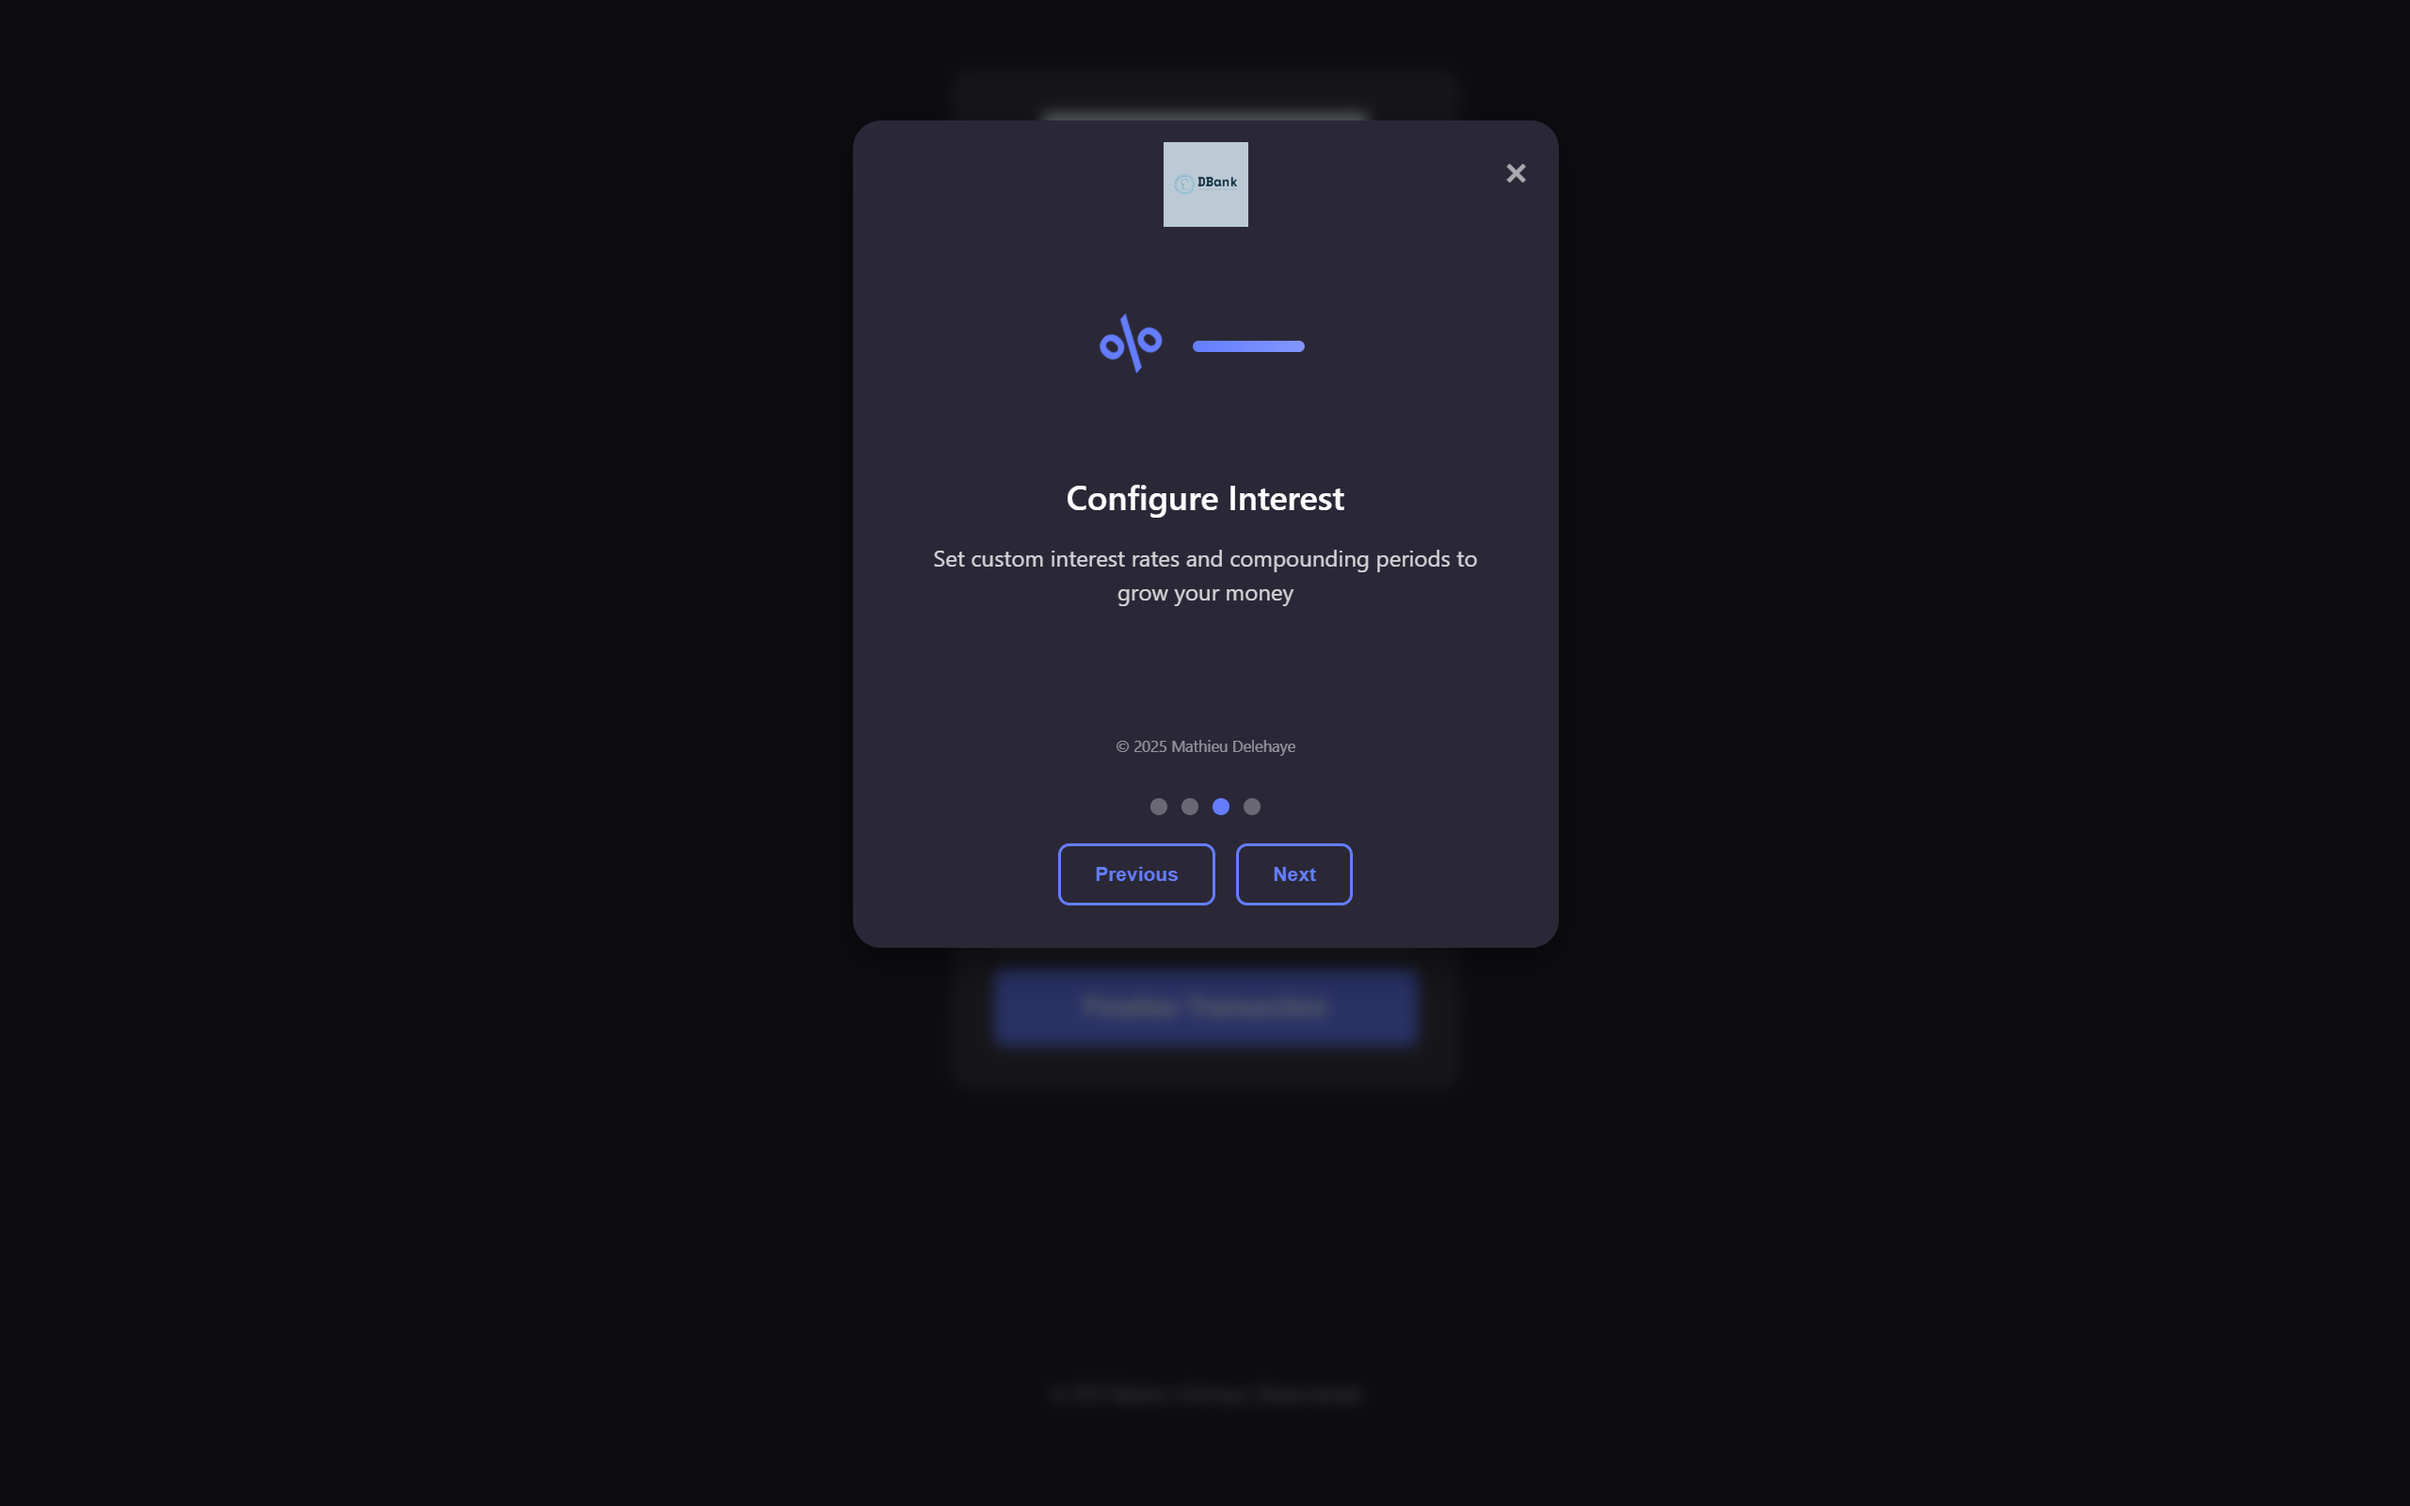
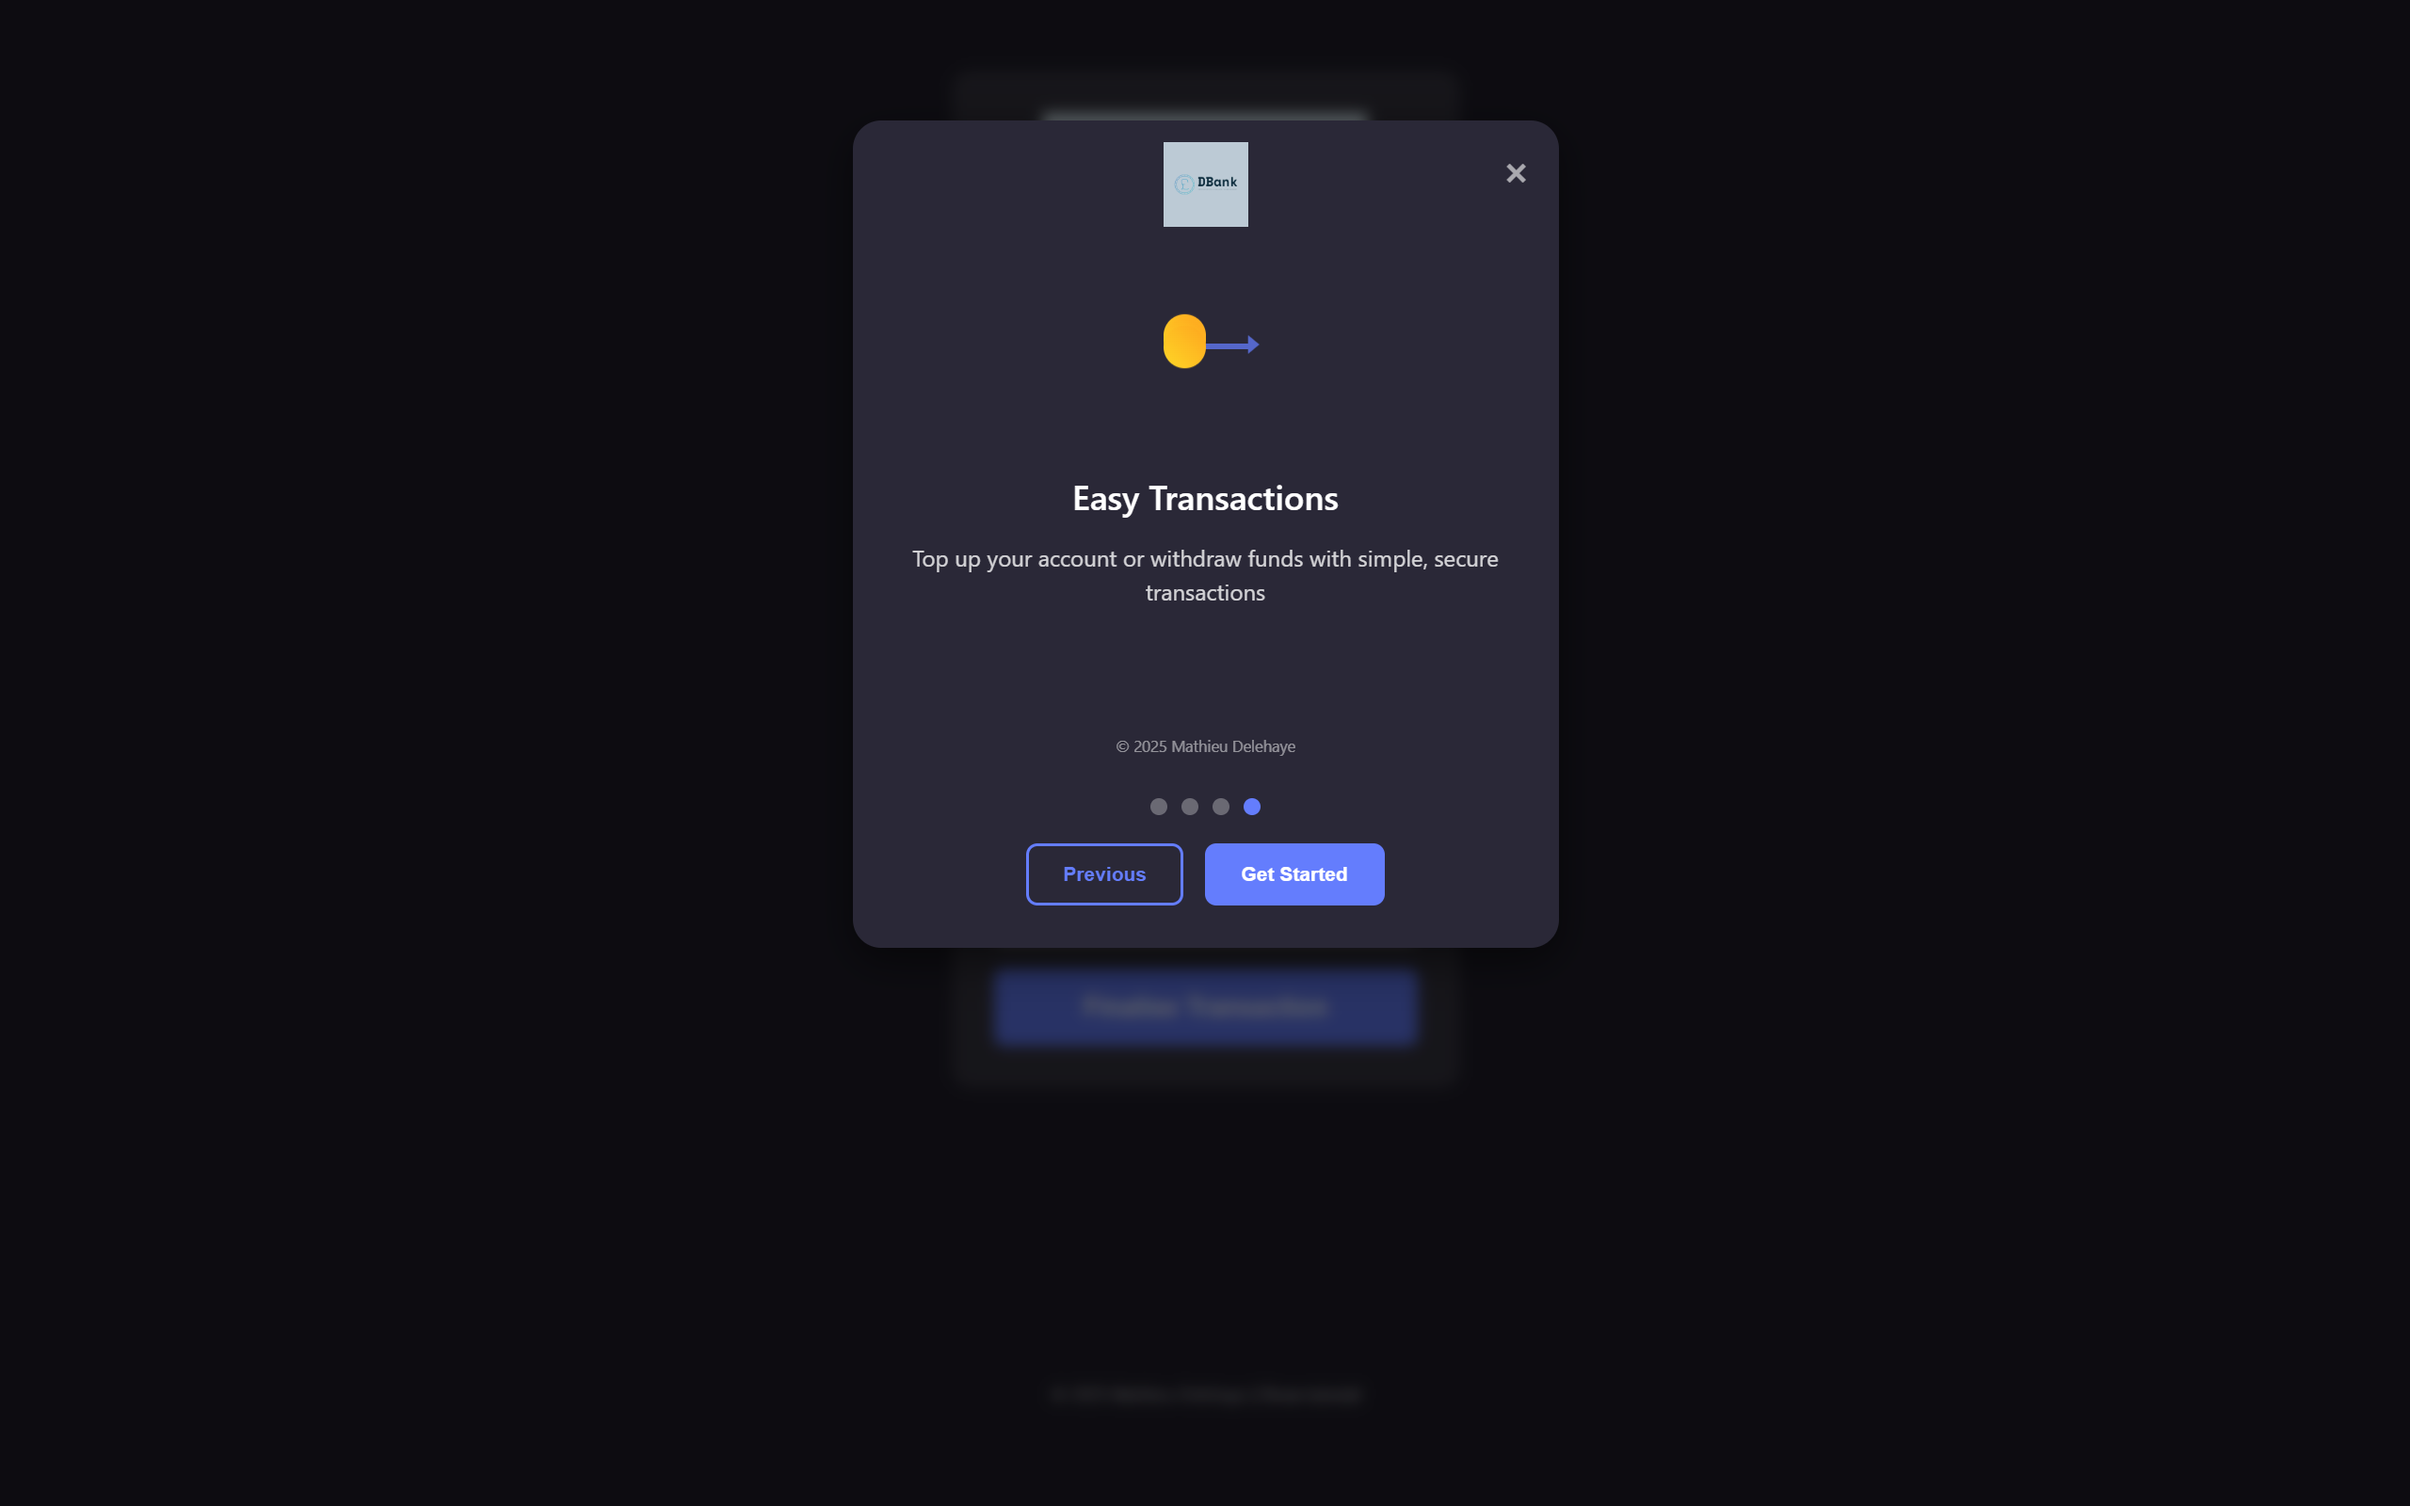
Readme updated
Screenshots renamed.

Changed region(s): [[0.375, 0.3125, 0.625, 0.4062], [0.4375, 0.5312, 0.5938, 0.625], [0.4375, 0.1875, 0.5312, 0.25]]

diff --git a/README.md b/README.md
@@ -1,6 +1,39 @@
-# `dbank`
+# DBank - Digital Banking Application
 
-Welcome to your new `dbank` project and to the Internet Computer development community. By default, creating a new project adds this README and some template files to your project directory. You can edit these template files to customize your project and to include your own code to speed up the development cycle.
+A smart digital banking solution built on the Internet Computer with configurable interest rates and automatic compounding.
+
+## Live Deployment
+
+- **Frontend**: https://looso-6qaaa-aaaaj-qns6q-cai.icp0.io/
+- **Backend**: https://a4gq6-oaaaa-aaaab-qaa4q-cai.raw.icp0.io/?id=ljpu2-tiaaa-aaaaj-qns6a-cai
+
+## Screenshots
+
+![Main Interface](screenshots/screenshot_01.png)
+*Main banking interface with balance display and transaction controls*
+
+![Interest Configuration](screenshots/screenshot_02.png)
+*Configurable interest rates and compounding periods*
+
+![Onboarding Tutorial](screenshots/screenshot_03.png)
+*Interactive onboarding tutorial for new users*
+
+![Transaction Features](screenshots/screenshot_04.png)
+*Easy top-up and withdrawal functionality*
+
+![Complete Interface](screenshots/screenshot_05.png)
+*Complete application overview*
+
+## What DBank Does
+
+DBank is your digital banking solution that provides:
+
+- **Real-time Balance Tracking**: View your current balance with automatic updates
+- **Configurable Interest**: Set custom interest rates and compounding periods to grow your money
+- **Easy Transactions**: Top up your account or withdraw funds with simple, secure transactions
+- **Automatic Reset**: Your account balance automatically resets when reaching approximately $10,000
+
+The application features an interactive onboarding tutorial that explains all features to new users.
 
 To get started, you might want to explore the project directory structure and the default configuration file. Working with this project in your development environment will not affect any production deployment or identity tokens.
 
